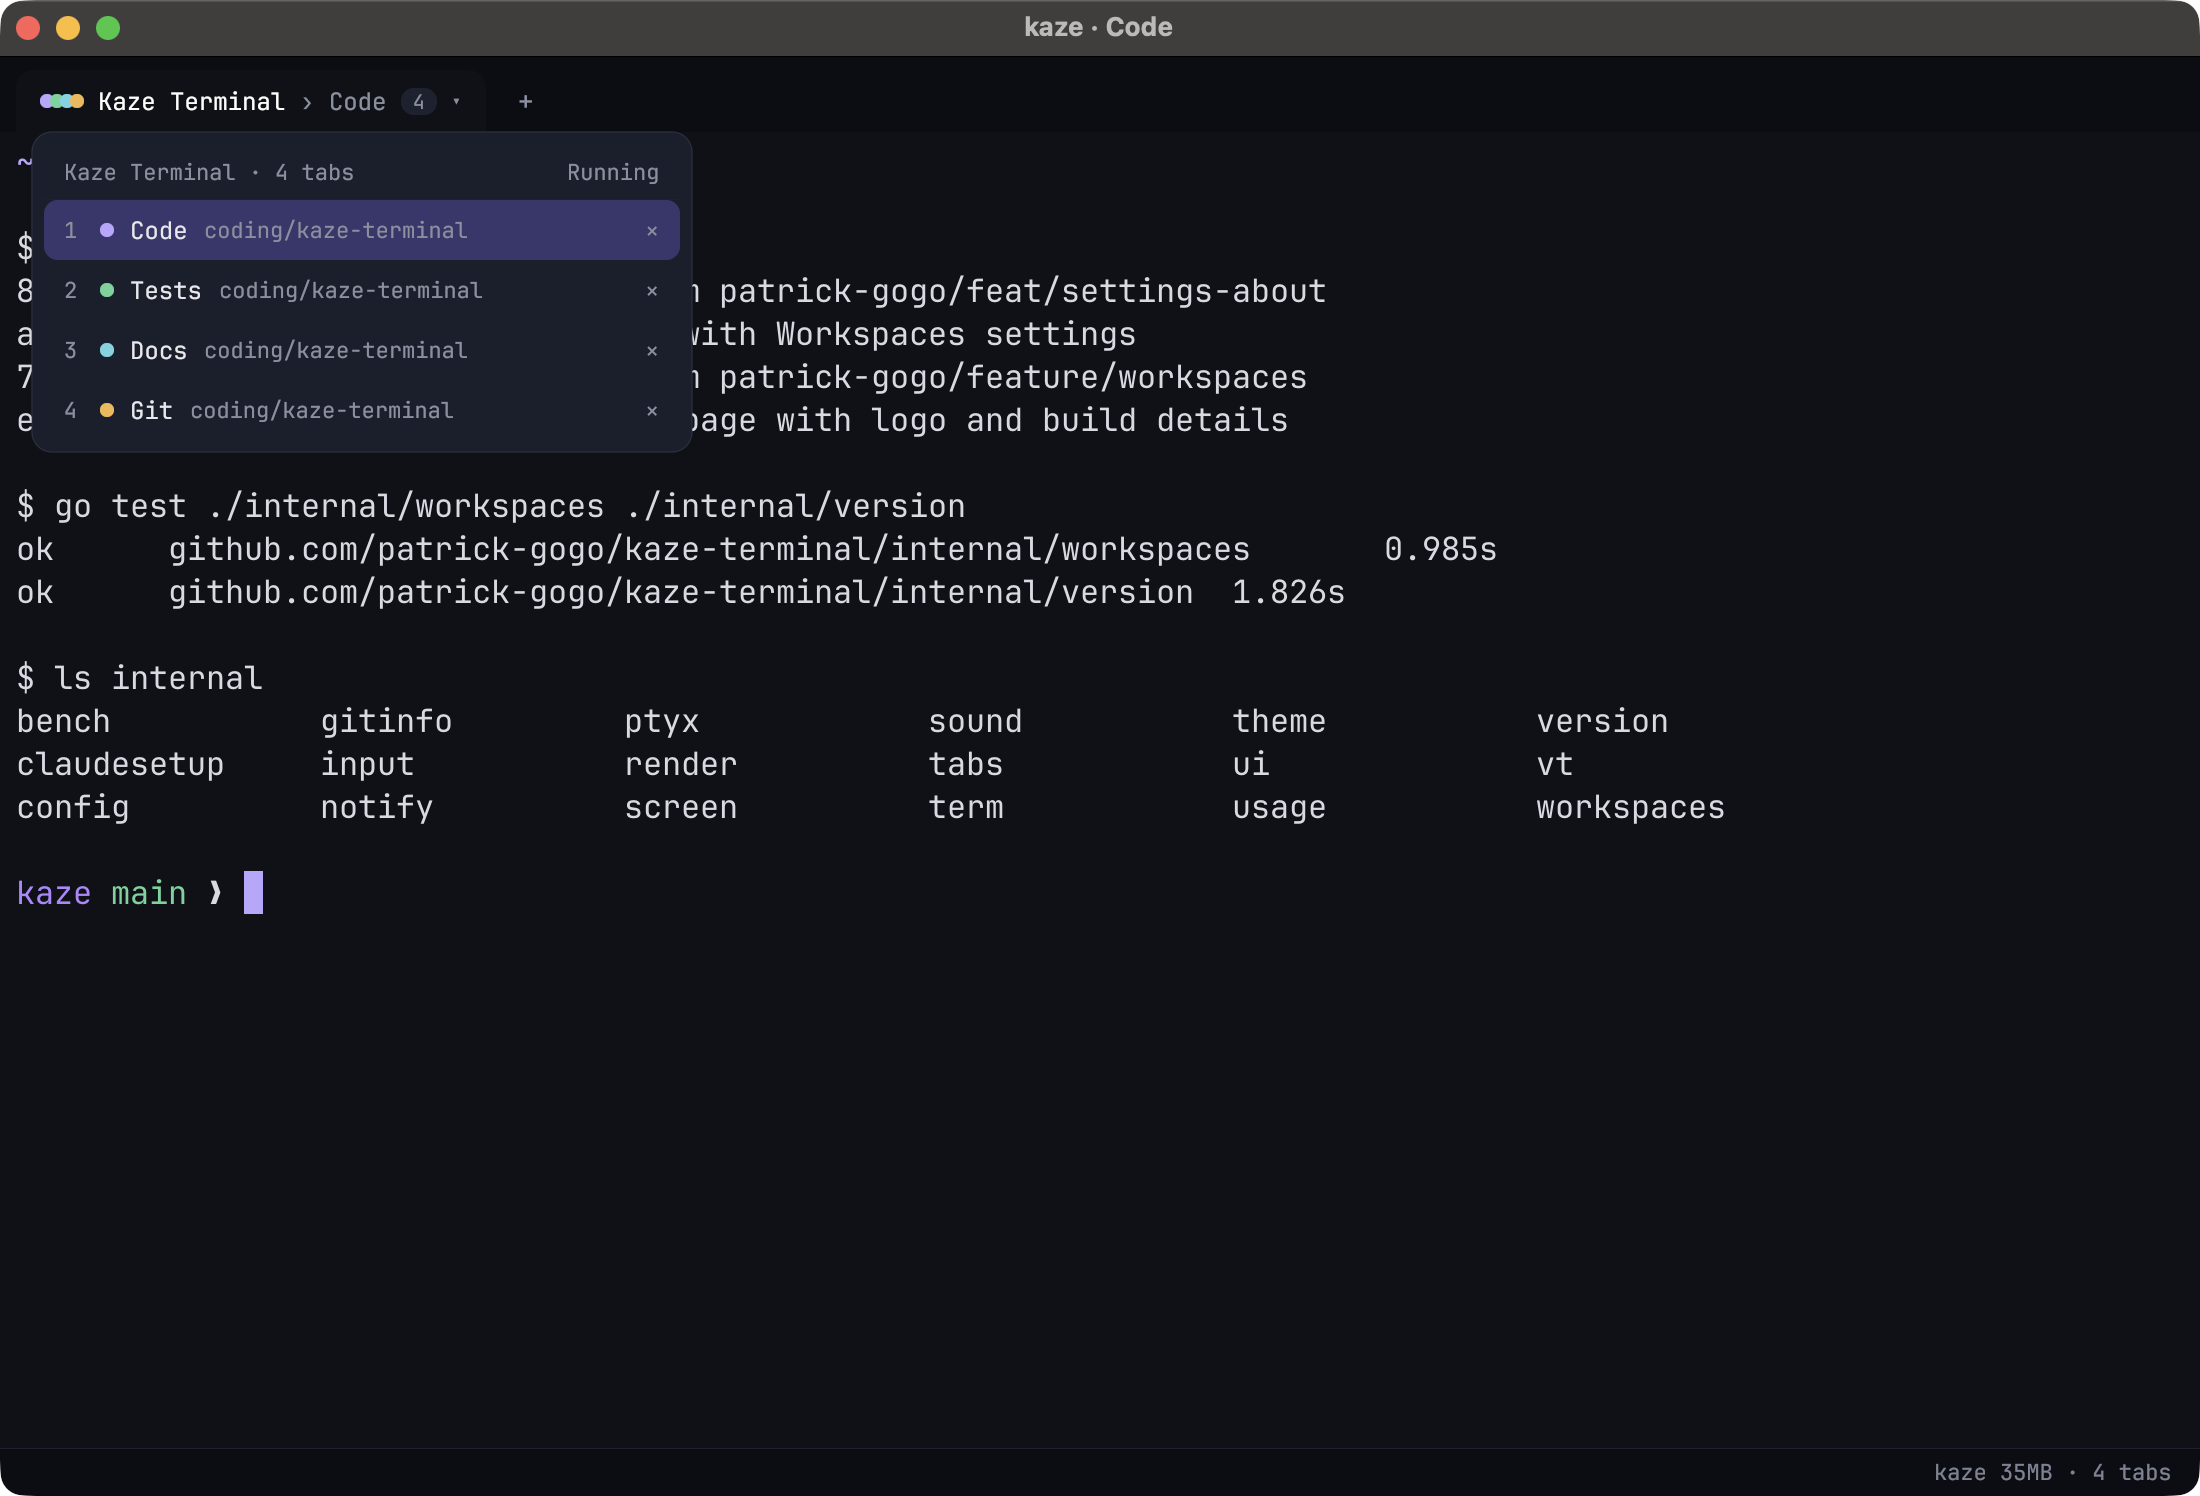
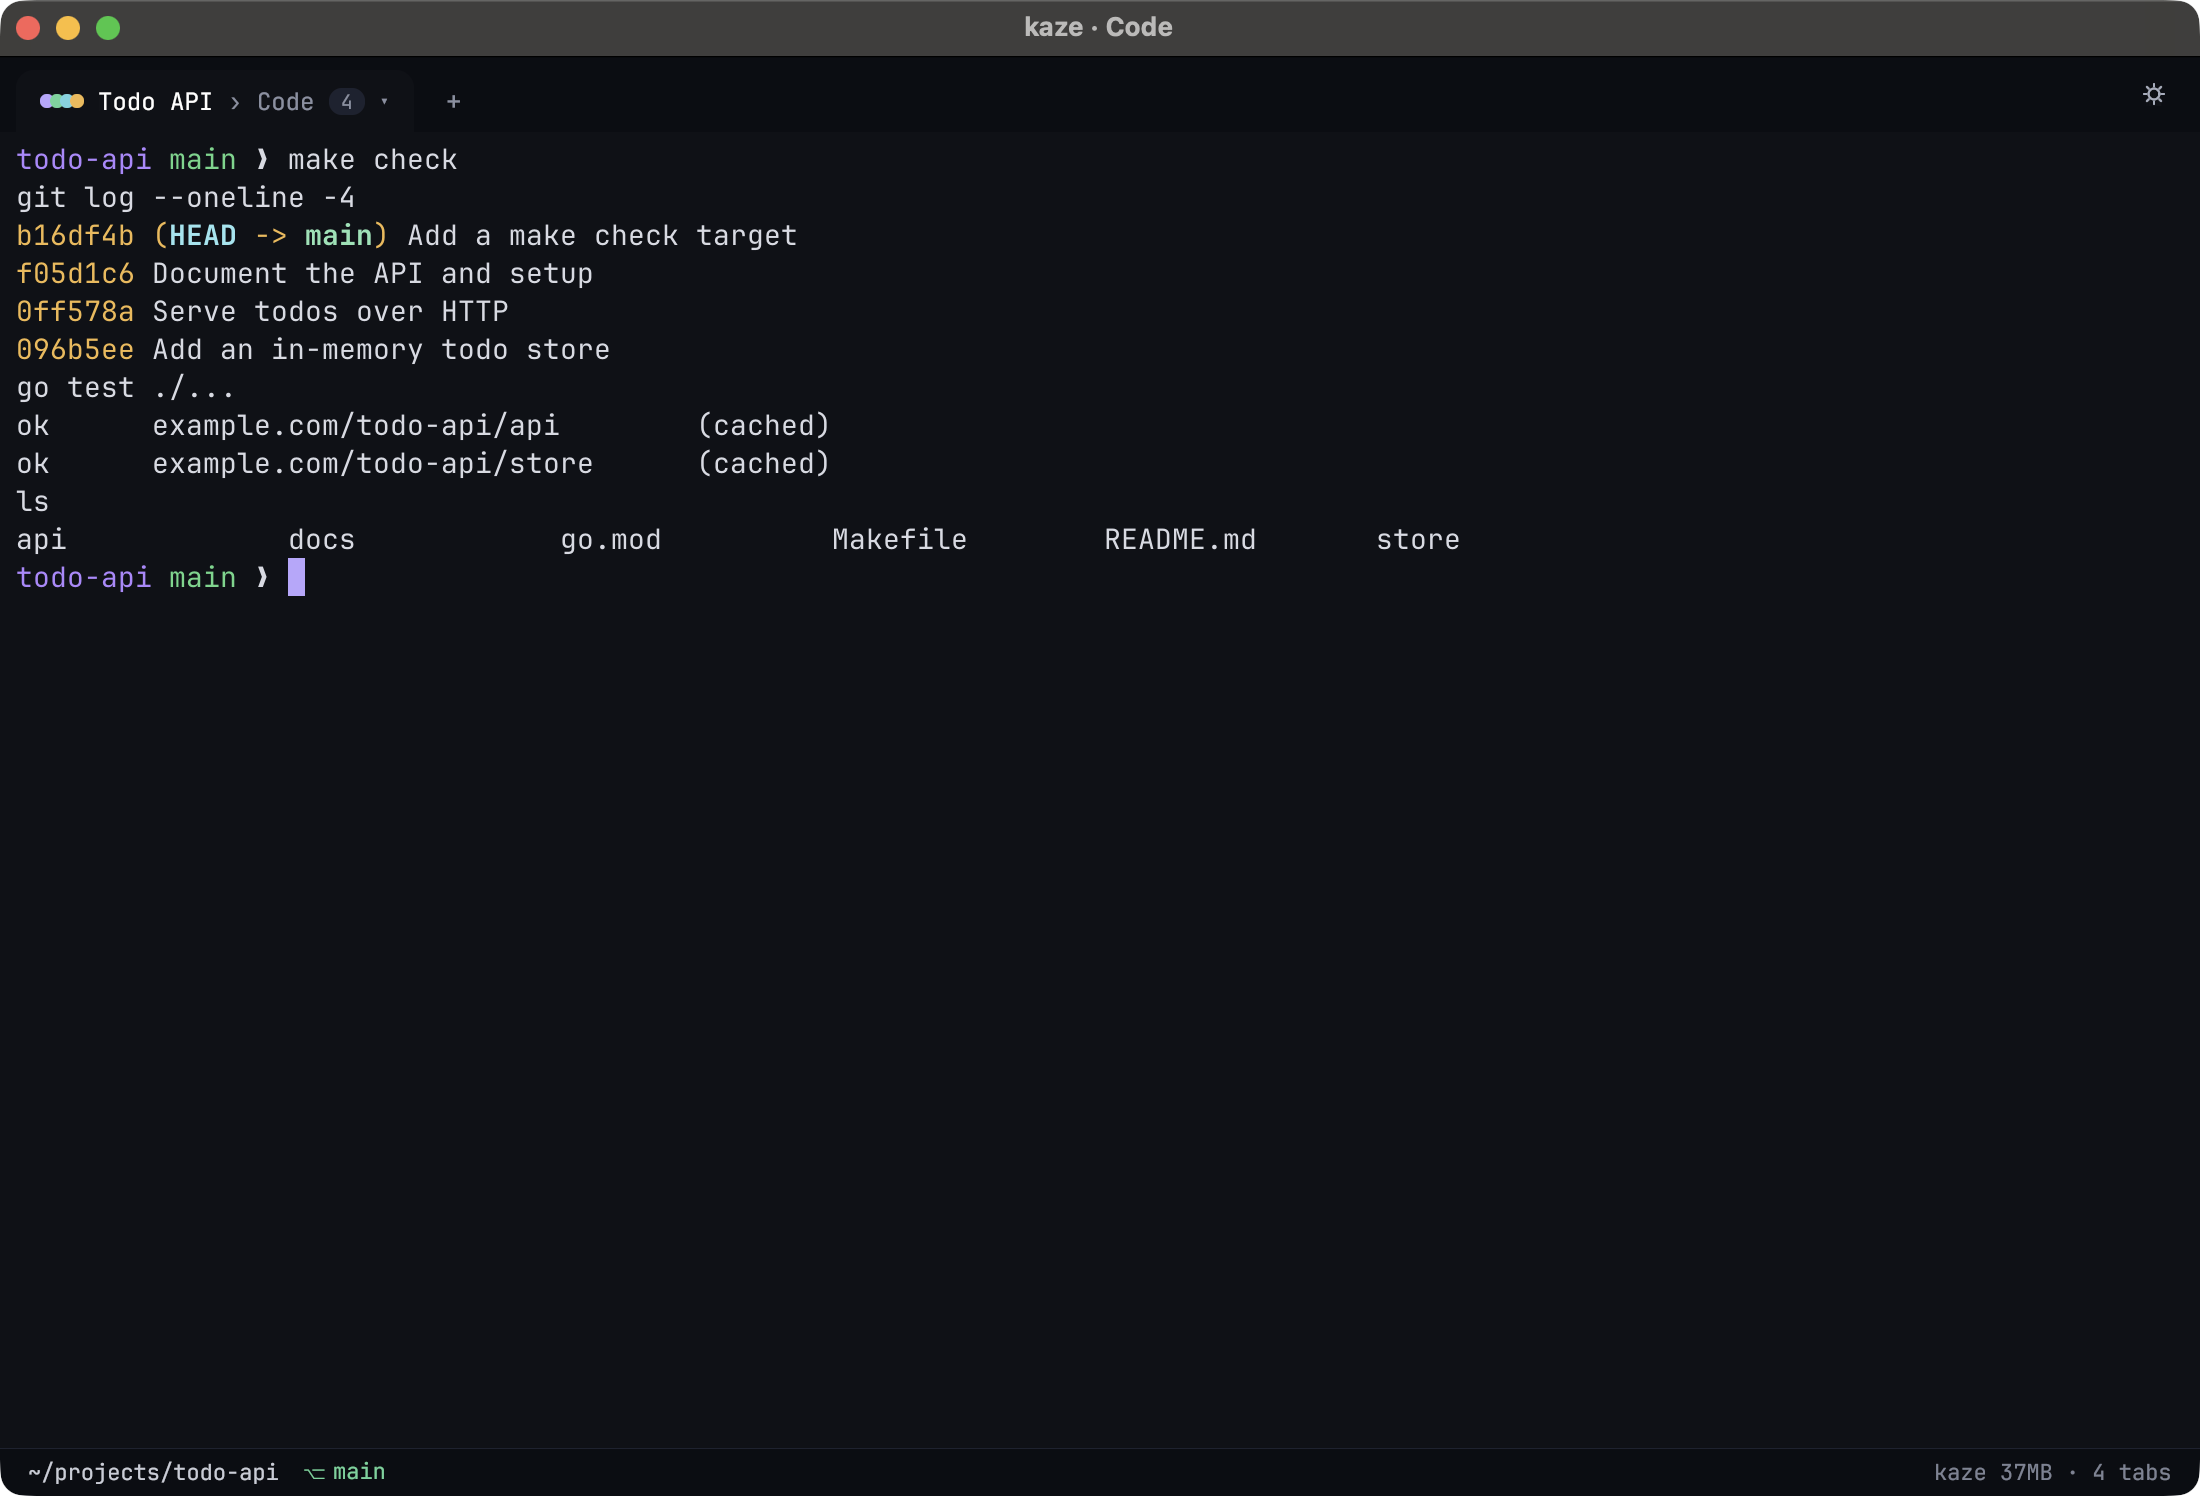
docs(site): Replace the terminal screenshot with a neutral demo project

diff --git a/docs/index.html b/docs/index.html
@@ -25,7 +25,7 @@
     <p class="platform-note">Also on <a href="#install" data-platform="windows">Windows</a><span aria-hidden="true">/</span>Go + Gio<span aria-hidden="true">/</span>MIT licensed</p>
     <figure class="product">
       <div class="product-caption"><div class="capture-switcher" role="group" aria-label="Product screenshots"><button type="button" data-shot="terminal" aria-pressed="true">Terminal</button><button type="button" data-shot="workspaces" aria-pressed="false">Workspaces</button><button type="button" data-shot="about" aria-pressed="false">About</button></div><span id="capture-description" aria-live="polite">Workspace tabs on macOS</span></div>
-      <div class="screenshot"><img id="product-shot" src="site-assets/kaze-terminal.png" alt="Kaze 0.6 running on macOS with a four-tab workspace menu and real Go test output" width="2200" height="1496" fetchpriority="high"></div>
+      <div class="screenshot"><img id="product-shot" src="site-assets/kaze-terminal.png" alt="Kaze running on macOS: a four-tab demo workspace showing git history, passing Go tests and a file listing" width="2200" height="1496" fetchpriority="high"></div>
       <figcaption>Captured from Kaze 0.6 on macOS. Demo workspace with real local command output.</figcaption>
     </figure>
   </section>

diff --git a/docs/site-assets/SCREENSHOTS.md b/docs/site-assets/SCREENSHOTS.md
@@ -2,7 +2,7 @@
 
 Native macOS window captures taken October 29, 2026, from Kaze 0.6, main build 849b494.
 
-- `kaze-terminal.png`: real shell output from git, Go tests, and a directory listing; the workspace member menu is open.
+- `kaze-terminal.png`: retaken October 30, 2026 from a demo `todo-api` project in a throwaway home folder (demo git author, example.com module): `make check` runs git log, Go tests and ls. No personal or work names appear.
 - `kaze-workspaces.png`: the Workspaces section displaying a saved demo recipe. Its commands are configuration, not evidence that Claude was run.
 - `kaze-about.png`: the About section displaying the logo and build information.
 
